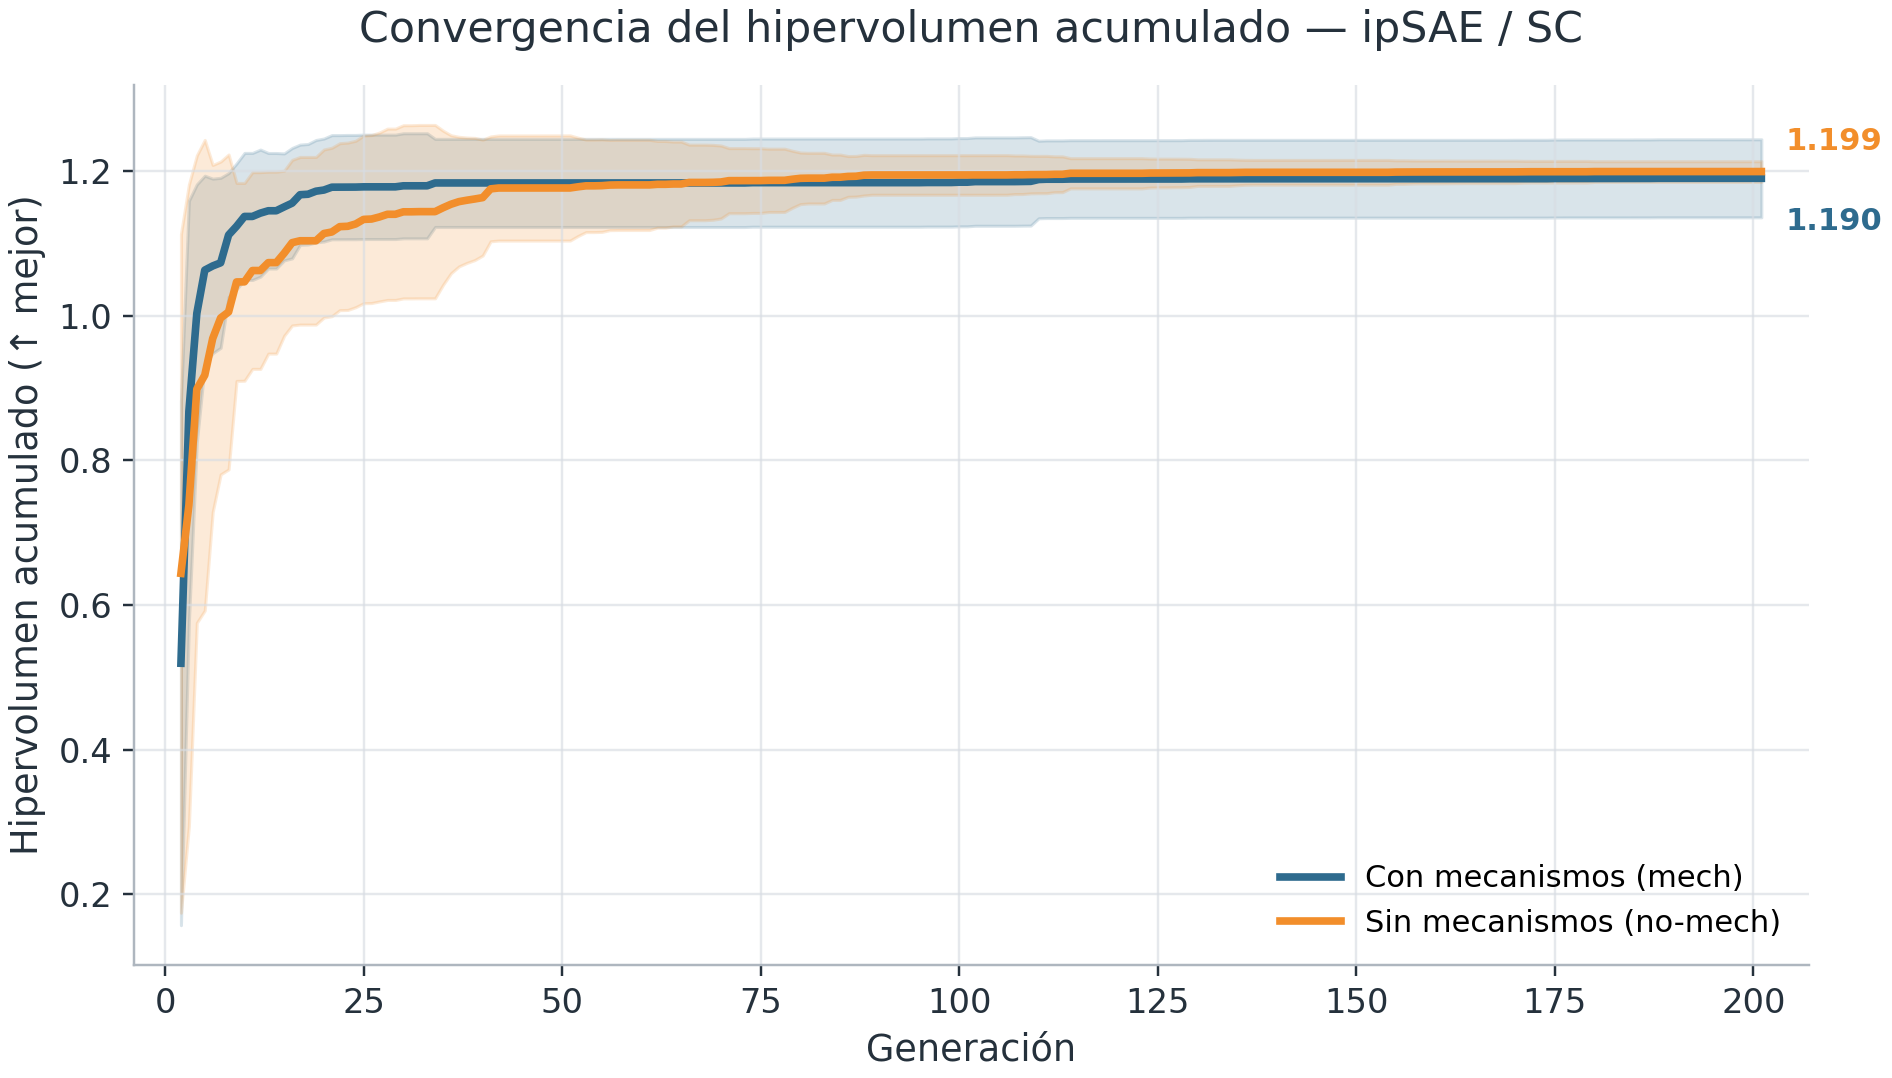
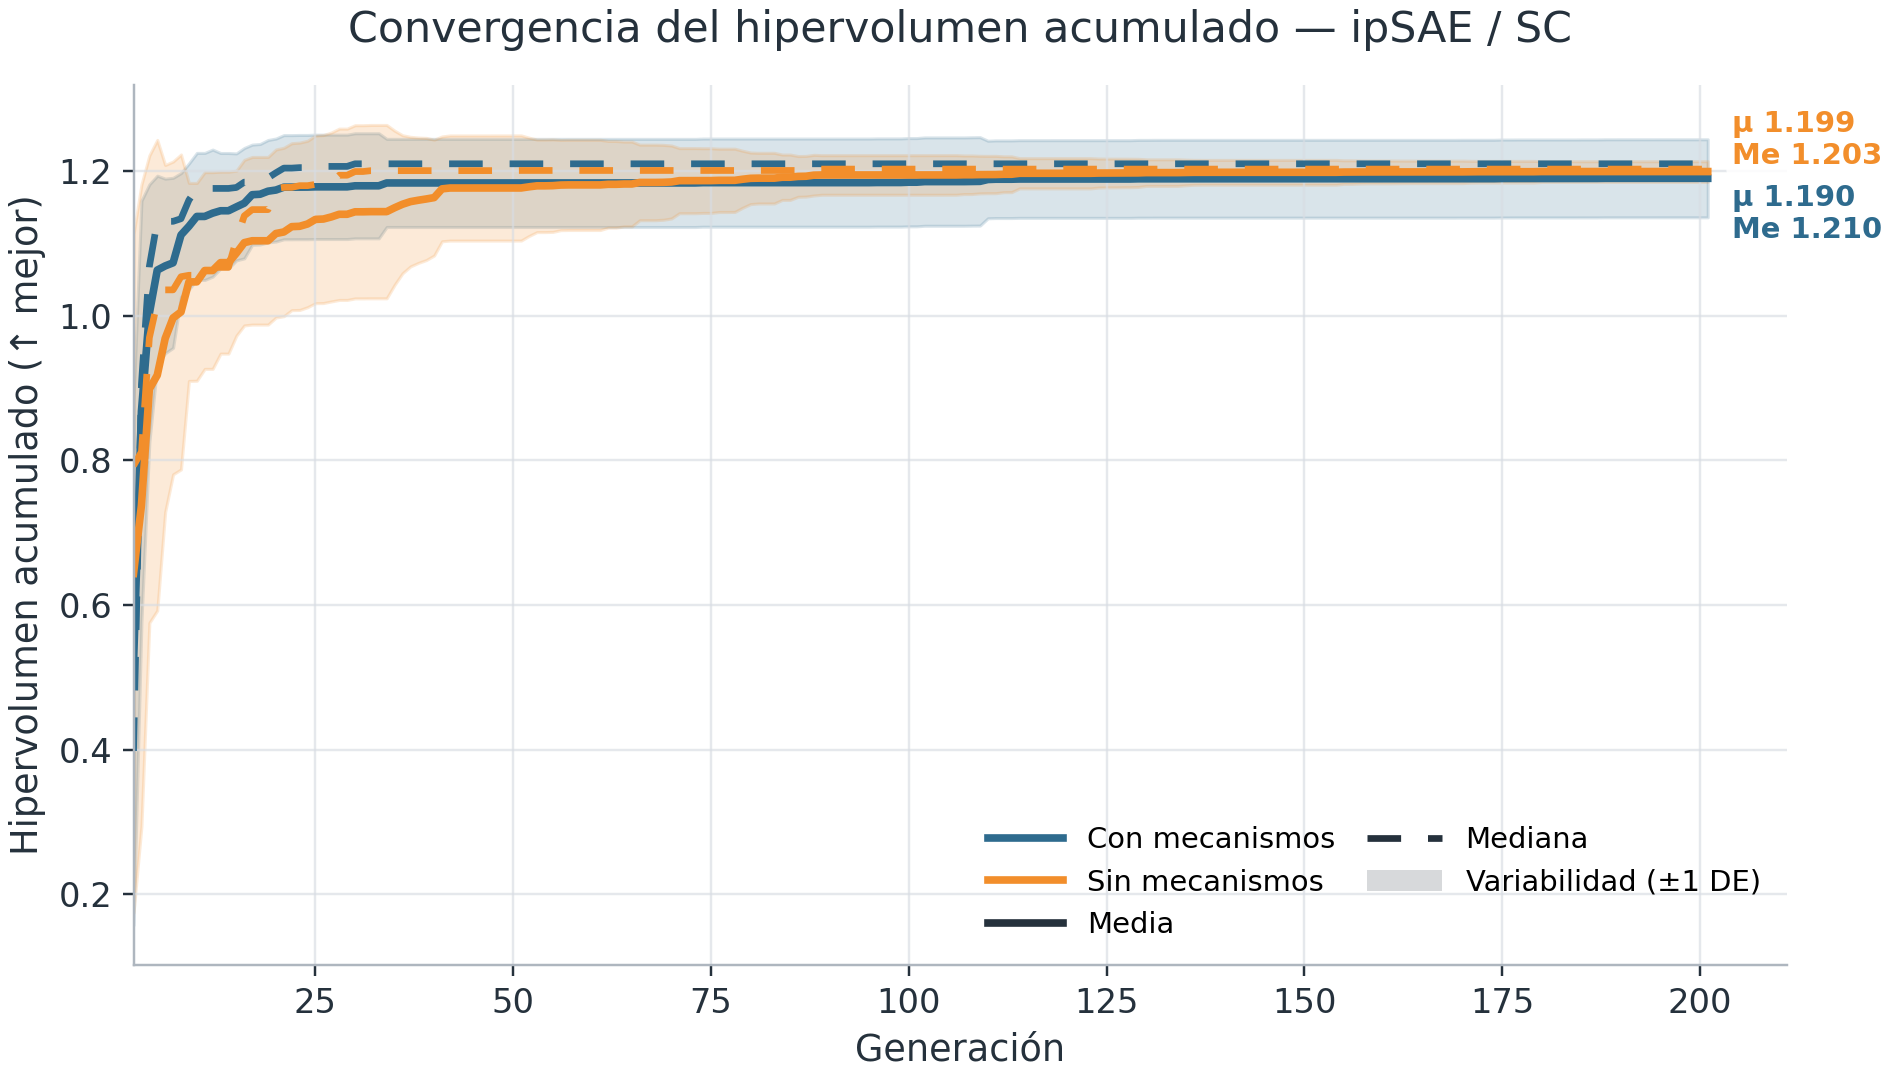
Add median lines to ablation convergence slides

diff --git a/src/pages/ablacion-convergencia.tsx b/src/pages/ablacion-convergencia.tsx
@@ -44,6 +44,7 @@ const H0_UNI =
   "MOEA-UD con mecanismos obtiene un HV acumulado final igual o menor que la versión sin mecanismos.";
 const H1_UNI =
   "MOEA-UD con mecanismos obtiene un HV acumulado final mayor que la versión sin mecanismos.";
+const ABLATION_FIGURE_VERSION = "median-v1";
 
 const SLIDES: SlideData[] = [
   {
@@ -51,10 +52,11 @@ const SLIDES: SlideData[] = [
     sub: (
       <>
         <B>Con mecanismos</B> alcanza un hipervolumen acumulado final medio mayor (
-        <B>1.003</B>) que la versión <O>sin mecanismos</O> (<O>0.915</O>).
+        <B>1.003</B>) y también una mediana final mayor (<B>1.011</B>) que la
+        versión <O>sin mecanismos</O> (<O>0.915</O>; mediana <O>0.921</O>).
       </>
     ),
-    img: "/figures/ablation_cumhv_interface_pae_plddt.png",
+    img: `/figures/ablation_cumhv_interface_pae_plddt.png?v=${ABLATION_FIGURE_VERSION}`,
     alt: "Curva de convergencia del hipervolumen acumulado — Interface-PAE / pLDDT: con mecanismos frente a sin mecanismos.",
     rows: [
       { test: "Mann-Whitney U (bilateral)", h0: H0_BI, h1: H1_BI, p: "0.00911", sig: "**", reject: true },
@@ -68,10 +70,12 @@ const SLIDES: SlideData[] = [
       <>
         <O>Sin mecanismos</O> termina ligeramente por encima en hipervolumen
         acumulado final (<O>1.203</O>) frente a <B>con mecanismos</B> (
-        <B>1.192</B>), pero la diferencia no es estadísticamente significativa.
+        <B>1.192</B>); las medianas finales permanecen muy cercanas (
+        <B>1.200</B> vs. <O>1.202</O>), sin evidencia de una diferencia
+        estadísticamente significativa.
       </>
     ),
-    img: "/figures/ablation_cumhv_composite_tmscore.png",
+    img: `/figures/ablation_cumhv_composite_tmscore.png?v=${ABLATION_FIGURE_VERSION}`,
     alt: "Curva de convergencia del hipervolumen acumulado — Composite / TM-score: con mecanismos frente a sin mecanismos.",
     rows: [
       { test: "Mann-Whitney U (bilateral)", h0: H0_BI, h1: H1_BI, p: "0.2406", sig: "n.s.", reject: false },
@@ -85,10 +89,11 @@ const SLIDES: SlideData[] = [
       <>
         No se observa diferencia significativa en el hipervolumen acumulado final
         (<B>con mecanismos: media 1.190</B>;{" "}
-        <O>sin mecanismos: media 1.199</O>).
+        <O>sin mecanismos: media 1.199</O>; mediana <B>1.210</B> frente a{" "}
+        <O>1.203</O>).
       </>
     ), 
-    img: "/figures/ablation_cumhv_ipsae_sc.png",
+    img: `/figures/ablation_cumhv_ipsae_sc.png?v=${ABLATION_FIGURE_VERSION}`,
     alt: "Curva de convergencia del hipervolumen acumulado — ipSAE / SC: con mecanismos frente a sin mecanismos.",
     rows: [
       { test: "Mann-Whitney U (bilateral)", h0: H0_BI, h1: H1_BI, p: "0.2755", sig: "n.s.", reject: false },
@@ -157,7 +162,8 @@ function SlideView({ data }: { data: SlideData }) {
         <p className="exp-foot">
           *** p&lt;0.001, ** p&lt;0.01, * p&lt;0.05, n.s. = no significativo.
           Hipervolumen acumulado final por réplica; n = 10 réplicas
-          independientes por condición.
+          independientes por condición. Línea sólida: media; línea discontinua:
+          mediana; banda: variabilidad entre réplicas.
         </p>
       </div>
     </motion.div>

diff --git a/src/pages/variantes-evopro.tsx b/src/pages/variantes-evopro.tsx
@@ -400,8 +400,7 @@ export function VariantesEvoPro() {
       </h2>
       <p className="ablacion-sub">
         Comparación visual del mejor <strong>overall_score</strong> por
-        variante; los puntos con PDB documentado abren en el visor la
-        estructura molecular asociada a esa corrida.
+        variante.
       </p>
 
       <div className="ablacion-grid">

diff --git a/scripts/build_ablation_cumhv.py b/scripts/build_ablation_cumhv.py
@@ -20,6 +20,8 @@ matplotlib.use("Agg")
 
 import matplotlib.pyplot as plt
 import numpy as np
+from matplotlib.lines import Line2D
+from matplotlib.patches import Patch
 
 REPO = Path(__file__).resolve().parents[1]
 RUN = REPO.parent / "EvoPro_Mod" / "evopro" / "run"
@@ -164,8 +166,10 @@ def plot_pair(spec: PairSpec) -> tuple[Path, dict[str, float], dict[str, int]]:
     no_mech_mat = interpolate_group(no_mech, grid)
 
     mech_mean = mech_mat.mean(axis=0)
+    mech_median = np.median(mech_mat, axis=0)
     mech_std = mech_mat.std(axis=0, ddof=0)
     no_mech_mean = no_mech_mat.mean(axis=0)
+    no_mech_median = np.median(no_mech_mat, axis=0)
     no_mech_std = no_mech_mat.std(axis=0, ddof=0)
 
     fig, ax = plt.subplots(figsize=(8.6, 4.9), constrained_layout=True)
@@ -175,37 +179,57 @@ def plot_pair(spec: PairSpec) -> tuple[Path, dict[str, float], dict[str, int]]:
     ax.fill_between(
         grid, no_mech_mean - no_mech_std, no_mech_mean + no_mech_std, color=NO_MECH, alpha=0.18
     )
-    ax.plot(grid, mech_mean, color=MECH, linewidth=2.5, label="Con mecanismos (mech)")
-    ax.plot(grid, no_mech_mean, color=NO_MECH, linewidth=2.5, label="Sin mecanismos (no-mech)")
+    ax.plot(grid, mech_mean, color=MECH, linewidth=2.5)
+    ax.plot(grid, mech_median, color=MECH, linewidth=2.2, linestyle=(0, (5, 4)))
+    ax.plot(grid, no_mech_mean, color=NO_MECH, linewidth=2.5)
+    ax.plot(grid, no_mech_median, color=NO_MECH, linewidth=2.2, linestyle=(0, (5, 4)))
 
     ax.set_title(f"Convergencia del hipervolumen acumulado — {spec.formulation}", fontsize=14, pad=14)
     ax.set_xlabel("Generación", fontsize=12)
     ax.set_ylabel("Hipervolumen acumulado (↑ mejor)", fontsize=12)
-    ax.legend(frameon=False, fontsize=10, loc="lower right")
-    ax.margins(x=0.03)
+    ax.legend(
+        handles=[
+            Line2D([0], [0], color=MECH, linewidth=2.5, label="Con mecanismos"),
+            Line2D([0], [0], color=NO_MECH, linewidth=2.5, label="Sin mecanismos"),
+            Line2D([0], [0], color=TEXT, linewidth=2.5, label="Media"),
+            Line2D([0], [0], color=TEXT, linewidth=2.2, linestyle=(0, (5, 4)), label="Mediana"),
+            Patch(facecolor=TEXT, edgecolor="none", alpha=0.18, label="Variabilidad (±1 DE)"),
+        ],
+        frameon=False,
+        fontsize=9.5,
+        loc="lower right",
+        ncol=2,
+        columnspacing=1.1,
+        handlelength=2.6,
+    )
+    ax.set_xlim(grid[0], grid[-1] + max(6, round((grid[-1] - grid[0]) * 0.05)))
 
     final_mech = float(mech_mean[-1])
+    final_mech_median = float(mech_median[-1])
     final_no_mech = float(no_mech_mean[-1])
-    mech_offset, no_mech_offset = end_offsets(final_mech, final_no_mech)
+    final_no_mech_median = float(no_mech_median[-1])
+    mech_anchor = float((final_mech + final_mech_median) / 2.0)
+    no_mech_anchor = float((final_no_mech + final_no_mech_median) / 2.0)
+    mech_offset, no_mech_offset = end_offsets(mech_anchor, no_mech_anchor)
 
     ax.annotate(
-        f"{final_mech:.3f}",
-        xy=(grid[-1], final_mech),
+        f"μ {final_mech:.3f}\nMe {final_mech_median:.3f}",
+        xy=(grid[-1], mech_anchor),
         xytext=mech_offset,
         textcoords="offset points",
         color=MECH,
-        fontsize=10,
+        fontsize=9.5,
         fontweight="bold",
         va="center",
         bbox={"boxstyle": "round,pad=0.2", "fc": "white", "ec": "none", "alpha": 0.85},
     )
     ax.annotate(
-        f"{final_no_mech:.3f}",
-        xy=(grid[-1], final_no_mech),
+        f"μ {final_no_mech:.3f}\nMe {final_no_mech_median:.3f}",
+        xy=(grid[-1], no_mech_anchor),
         xytext=no_mech_offset,
         textcoords="offset points",
         color=NO_MECH,
-        fontsize=10,
+        fontsize=9.5,
         fontweight="bold",
         va="center",
         bbox={"boxstyle": "round,pad=0.2", "fc": "white", "ec": "none", "alpha": 0.85},
@@ -216,7 +240,12 @@ def plot_pair(spec: PairSpec) -> tuple[Path, dict[str, float], dict[str, int]]:
     fig.savefig(output, dpi=220, facecolor="white")
     plt.close(fig)
 
-    return output, {"mech": final_mech, "no_mech": final_no_mech}, {
+    return output, {
+        "mech_mean": final_mech,
+        "mech_median": final_mech_median,
+        "no_mech_mean": final_no_mech,
+        "no_mech_median": final_no_mech_median,
+    }, {
         "mech": len(mech),
         "no_mech": len(no_mech),
         "grid_start": int(grid[0]),
@@ -230,7 +259,8 @@ def main() -> None:
         print(
             f"{spec.formulation}: mech n={counts['mech']}, no-mech n={counts['no_mech']}, "
             f"grid={counts['grid_start']}-{counts['grid_end']}, "
-            f"finales=({finals['mech']:.3f}, {finals['no_mech']:.3f}) -> {output}"
+            f"finales media=({finals['mech_mean']:.3f}, {finals['no_mech_mean']:.3f}), "
+            f"mediana=({finals['mech_median']:.3f}, {finals['no_mech_median']:.3f}) -> {output}"
         )
 
 